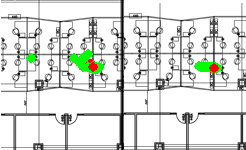
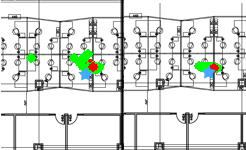
adding to figure, altering infrastructure

Changed region(s): [[0.7967, 0.4267, 0.8821, 0.5333], [0.313, 0.4533, 0.3984, 0.5333]]

diff --git a/paper/infrastructure.tex b/paper/infrastructure.tex
@@ -15,7 +15,7 @@ The routers cycle through each of the three wireless channels using tcpdump-4.2.
 x_d, y_d = \displaystyle\sum_{i} \frac{r_ix_i, r_iy_i}{\displaystyle\sum_i r_i}
 \end{split}
 \end{equation}
-The central computer stores the 10 most recent computed centroids, and the location of the device is computed as the average of the 5 most closely clustered centroids of the 10 cached centroids (using Manhattan Distance as a heuristic). In practice, this ``averaging of averages'' greatly reduces the influence of the deployment environment upon the consistency of the measured RSSIs. Abnormally strong or weak signals thus do not alter the accuracy of our estimations. There is an incurred lag of about 4 times the sample rate should the device move, but this delay is acceptable within the bounds of accurate occupancy detection. We are able to place devices within 1 cubicle of their actual location (about 10 feet). This grade of accuracy is lower than other trained systems such as X Y and Z, but because light banks and HVAC dampers cannot differentiate between two adjacent cubicles, our system need not as well.
+The central computer stores the 10 most recent computed centroids, and the location of the device is computed as the average of the 5 most closely clustered centroids of the 10 cached centroids (using Manhattan Distance as a heuristic). In practice, this ``averaging of averages'' greatly reduces the influence of the deployment environment upon the consistency of the measured RSSIs. Abnormally strong or weak signals thus do not alter the accuracy of our estimations. There is an incurred lag of about 4 times the sample rate should the device move, but this delay is acceptable within the bounds of accurate occupancy detection. We are able to place devices within 1 cubicle of their actual location (about 10 feet). This grade of accuracy is lower than other trained systems, but because light banks and HVAC dampers cannot differentiate between two adjacent cubicles, our system need not as well.
 
 The passive nature of our localization infrastructure means that it requires little, if any, effort on behalf of the occupants to perform. It is only necessary for a device to associate with the available network before we can start tracking it. We can obtain a session IP address for a device with a given MAC address by listening to all wireless traffic. In the absence of regular or sufficient traffic, the central computer can occasionally ping the device in question to either elicit the requisite wireless traffic or determine if the device has left the tracking area (which suggests the user has left). This approach differs from previous wireless localization work in that it does not \emph{require} the user to ensure he/she is creating enough traffic to be localized accurately, but rather unobtrusively generates the necessary data. 
 
@@ -27,7 +27,7 @@ In order to place an occupant within a space, it is necessary to have the router
 \begin{center}
 \includegraphics[width=.6\linewidth]{figs/samplesize}
 \end{center}
-\caption{increased accuracy with increasingly large sample rates (20s, left; 10s, right). Even at times of low ambient signal noise, weighted centroid measurements can be inconsistent (green), a problem remedied by averaging the 5 most closely clustered centroids (red).}
+\caption{increased accuracy with increasingly large sample rates (20s, left; 10s, right). Even at times of low ambient signal noise, weighted centroid measurements can be inconsistent (green), a problem remedied by averaging the 5 most closely clustered centroids (red). The star represents the actual device location.}
 \end{figure}
 
 \begin{itemize}
